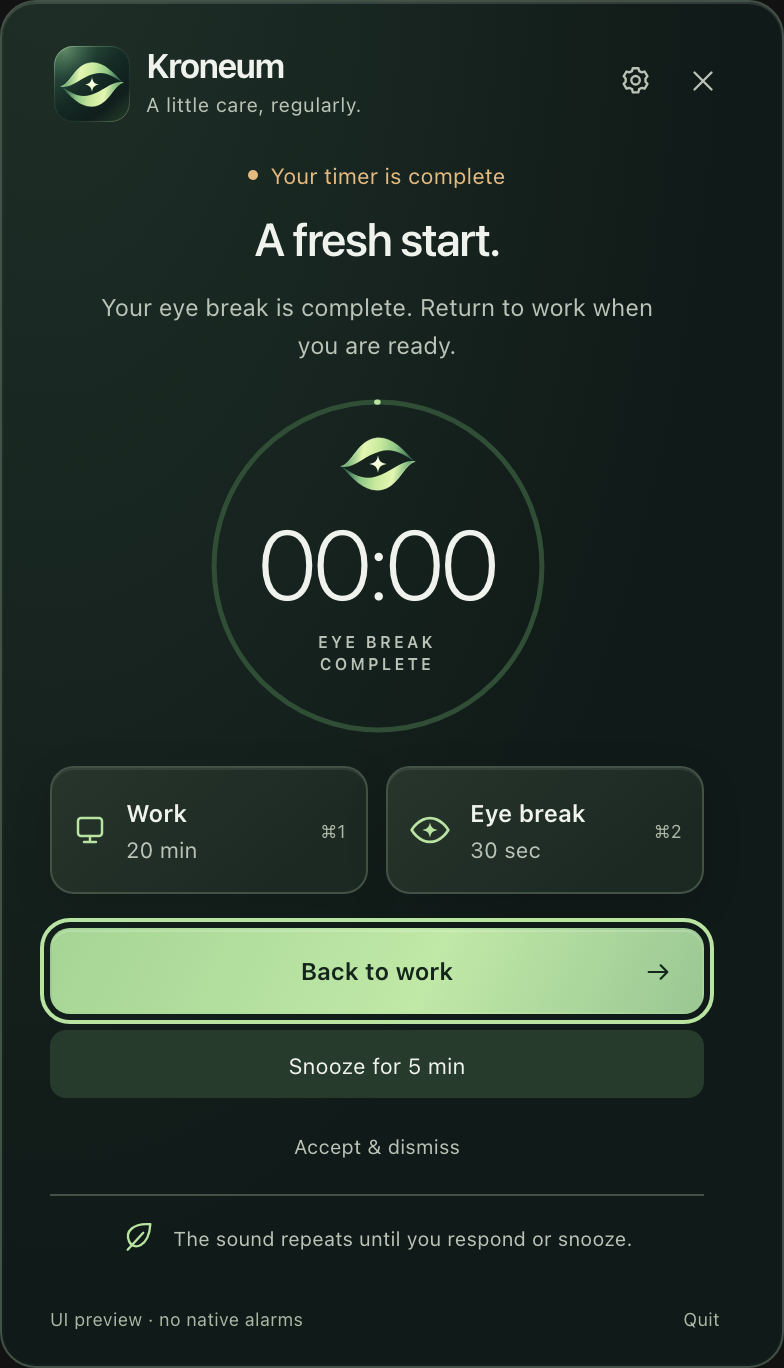
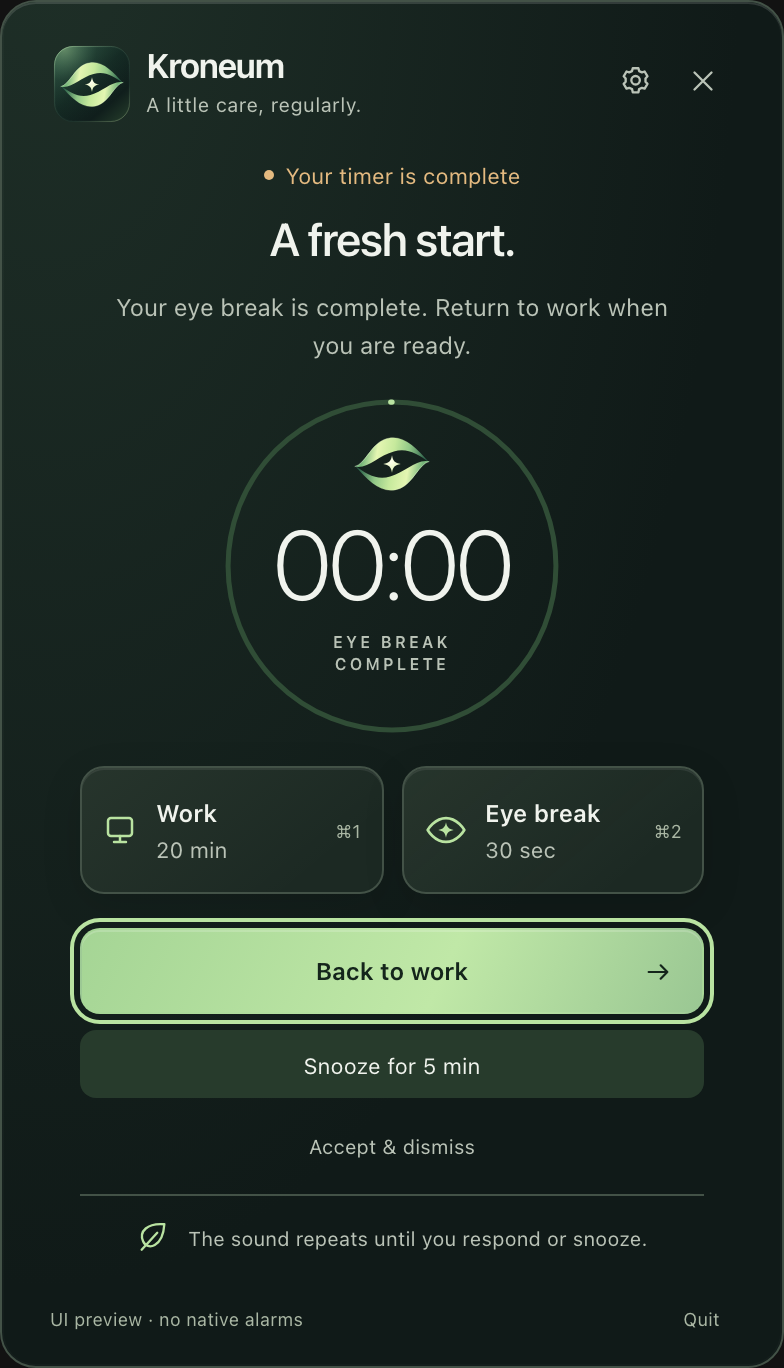
fix(ui): center panel content and refresh screenshots

diff --git a/tests/ui/app.spec.ts b/tests/ui/app.spec.ts
@@ -1,6 +1,57 @@
 import AxeBuilder from '@axe-core/playwright';
 import { expect, test } from '@playwright/test';
 
+for (const fixture of ['work', 'snoozed', 'break-alert', 'settings'] as const) {
+  for (const width of [340, 392]) {
+    test(`content stays horizontally centered at ${width}px (${fixture})`, async ({
+      page,
+    }) => {
+      await page.setViewportSize({ width, height: 684 });
+      await page.goto(
+        `/?preview=${fixture === 'snoozed' ? 'alert' : fixture === 'settings' ? 'work' : fixture}`,
+      );
+      await expect(page.locator('#primary')).toBeEnabled();
+      if (fixture === 'snoozed')
+        await page.getByRole('button', { name: 'Snooze for 5 min' }).click();
+      if (fixture === 'settings')
+        await page.getByRole('button', { name: 'Open settings' }).click();
+      const geometry = await page.evaluate((settings) => {
+        const shell = document.querySelector('.shell')!.getBoundingClientRect();
+        const center = shell.x + shell.width / 2;
+        const selectors = settings
+          ? ['#settings-view', '.settings-group', '#save-settings']
+          : [
+              '#timer-view',
+              '#heading',
+              '.timer-face',
+              '.preset-grid',
+              '#primary',
+              '.care-note',
+            ];
+        return selectors.map((selector) => {
+          const box = document.querySelector(selector)!.getBoundingClientRect();
+          return {
+            selector,
+            offset: box.x + box.width / 2 - center,
+            left: box.left - shell.left,
+            right: shell.right - box.right,
+          };
+        });
+      }, fixture === 'settings');
+      for (const box of geometry) {
+        expect(
+          Math.abs(box.offset),
+          `${box.selector} is off center`,
+        ).toBeLessThanOrEqual(0.5);
+        expect(
+          Math.abs(box.left - box.right),
+          `${box.selector} has unequal outer spacing`,
+        ).toBeLessThanOrEqual(1);
+      }
+    });
+  }
+}
+
 for (const colorScheme of ['light', 'dark'] as const) {
   for (const deviceScaleFactor of [1, 2]) {
     test(`new brand assets render in ${colorScheme} appearance at ${deviceScaleFactor}×`, async ({

diff --git a/src/styles.css b/src/styles.css
@@ -204,7 +204,8 @@ main {
   min-height: 0;
   overflow: auto;
   padding: 0 24px;
-  scrollbar-gutter: stable;
+  /* Mirror classic-scrollbar space so content stays centered in the panel. */
+  scrollbar-gutter: stable both-edges;
 }
 .status-line {
   display: flex;

diff --git a/docs/verification.md b/docs/verification.md
@@ -10,7 +10,7 @@ The build host uses macOS 26.7.3 on Apple Silicon, Rust 1.99.1, and Node.js 24.2
 | TypeScript and Prettier                                       | Passed                                    |
 | Presentation, branding, and window capability tests           | 38 passed                                 |
 | Rust engine, storage, placement, attention, and native checks | 64 passed                                 |
-| WebKit and Chromium interface checks                          | 108 passed                                |
+| WebKit and Chromium interface checks                          | 124 passed                                |
 | Light/dark accessibility checks                               | Passed within the interface suite         |
 | Alarm focus and layout fit                                    | Passed within the interface suite         |
 | Rust formatting                                               | Passed                                    |
@@ -52,6 +52,9 @@ Updated light/dark completion screenshots received a visual review.
 Caption regression tests first reproduced text crossing the ring in snooze and completion states.
 The corrected tests cover every caption at narrow and standard widths, with balanced and ordinary wrapping in both browser engines.
 They check the actual text rectangles against the circle, preserve the font size, and exclude clipping as a workaround.
+Horizontal alignment checks first reproduced a 7.5-pixel offset from a one-sided scrollbar gutter.
+The corrected checks cover work, snooze, completion, and scrollable settings at narrow and standard widths in both browser engines.
+Regenerated screenshots show equal outer spacing. GitHub rendering preserves the centered README screenshot table.
 
 ## Native checks that remain
 

diff --git a/docs/architecture.md b/docs/architecture.md
@@ -105,6 +105,8 @@ The countdown has `role="timer"` with live announcements off. Timer states, erro
 The interface changes status text only when its content changes, so each tick does not repeat an announcement.
 An alarm changes the visible content and moves focus to the primary response.
 Completion actions keep separate hit areas and hover backgrounds. Short panels scroll rather than overlap the action controls.
+The main scroll area mirrors reserved scrollbar space on both sides, so classic scrollbars do not shift the content off center.
+Overlay scrollbars retain the same center line without reserved space. Older WebViews use their native scrollbar behavior.
 Timer captions wrap within the lower interior of the circle, rather than its full diameter. Long captions remain complete and unclipped.
 Balanced wrapping is a progressive enhancement. Older WKWebView versions use ordinary wrapping within the same width constraint.
 The header, countdown, and eye-break control share vector brand artwork. Native app and tray icons derive from the same geometry.

diff --git a/README.md b/README.md
@@ -2,7 +2,7 @@
 
 A macOS menu-bar timer for regular eye breaks. Work for 20 minutes, look far away and blink for 30 seconds, then repeat.
 
-<table>
+<table align="center">
   <tr>
     <th align="center">Light</th>
     <th align="center">Dark</th>
